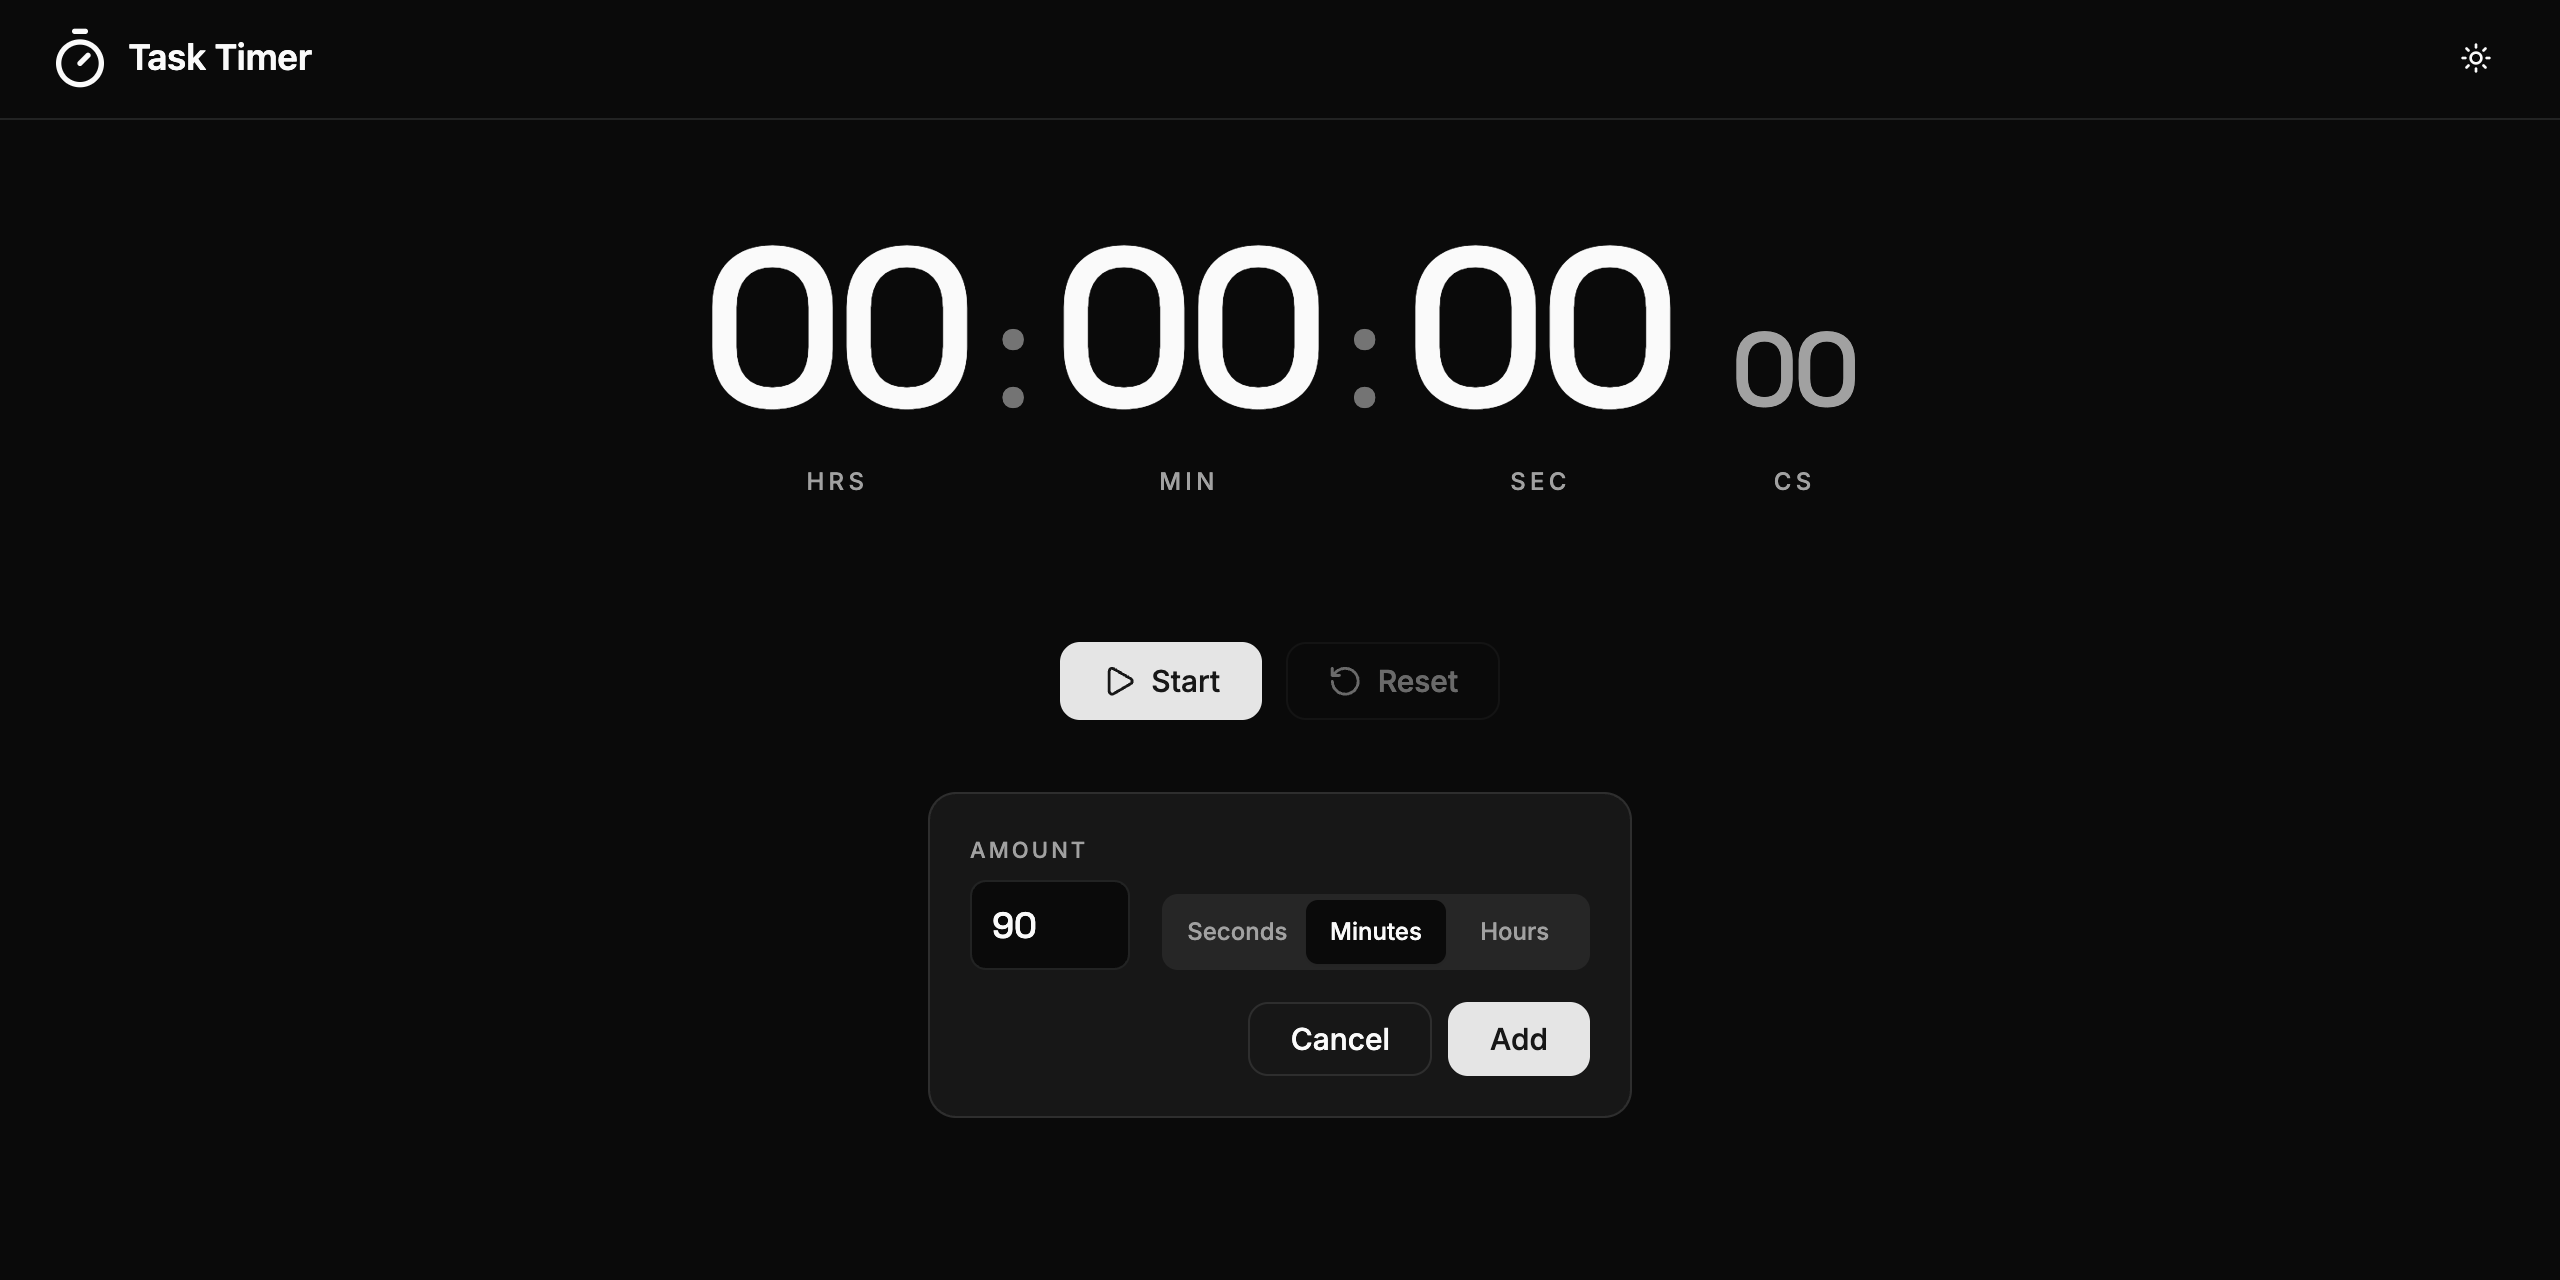
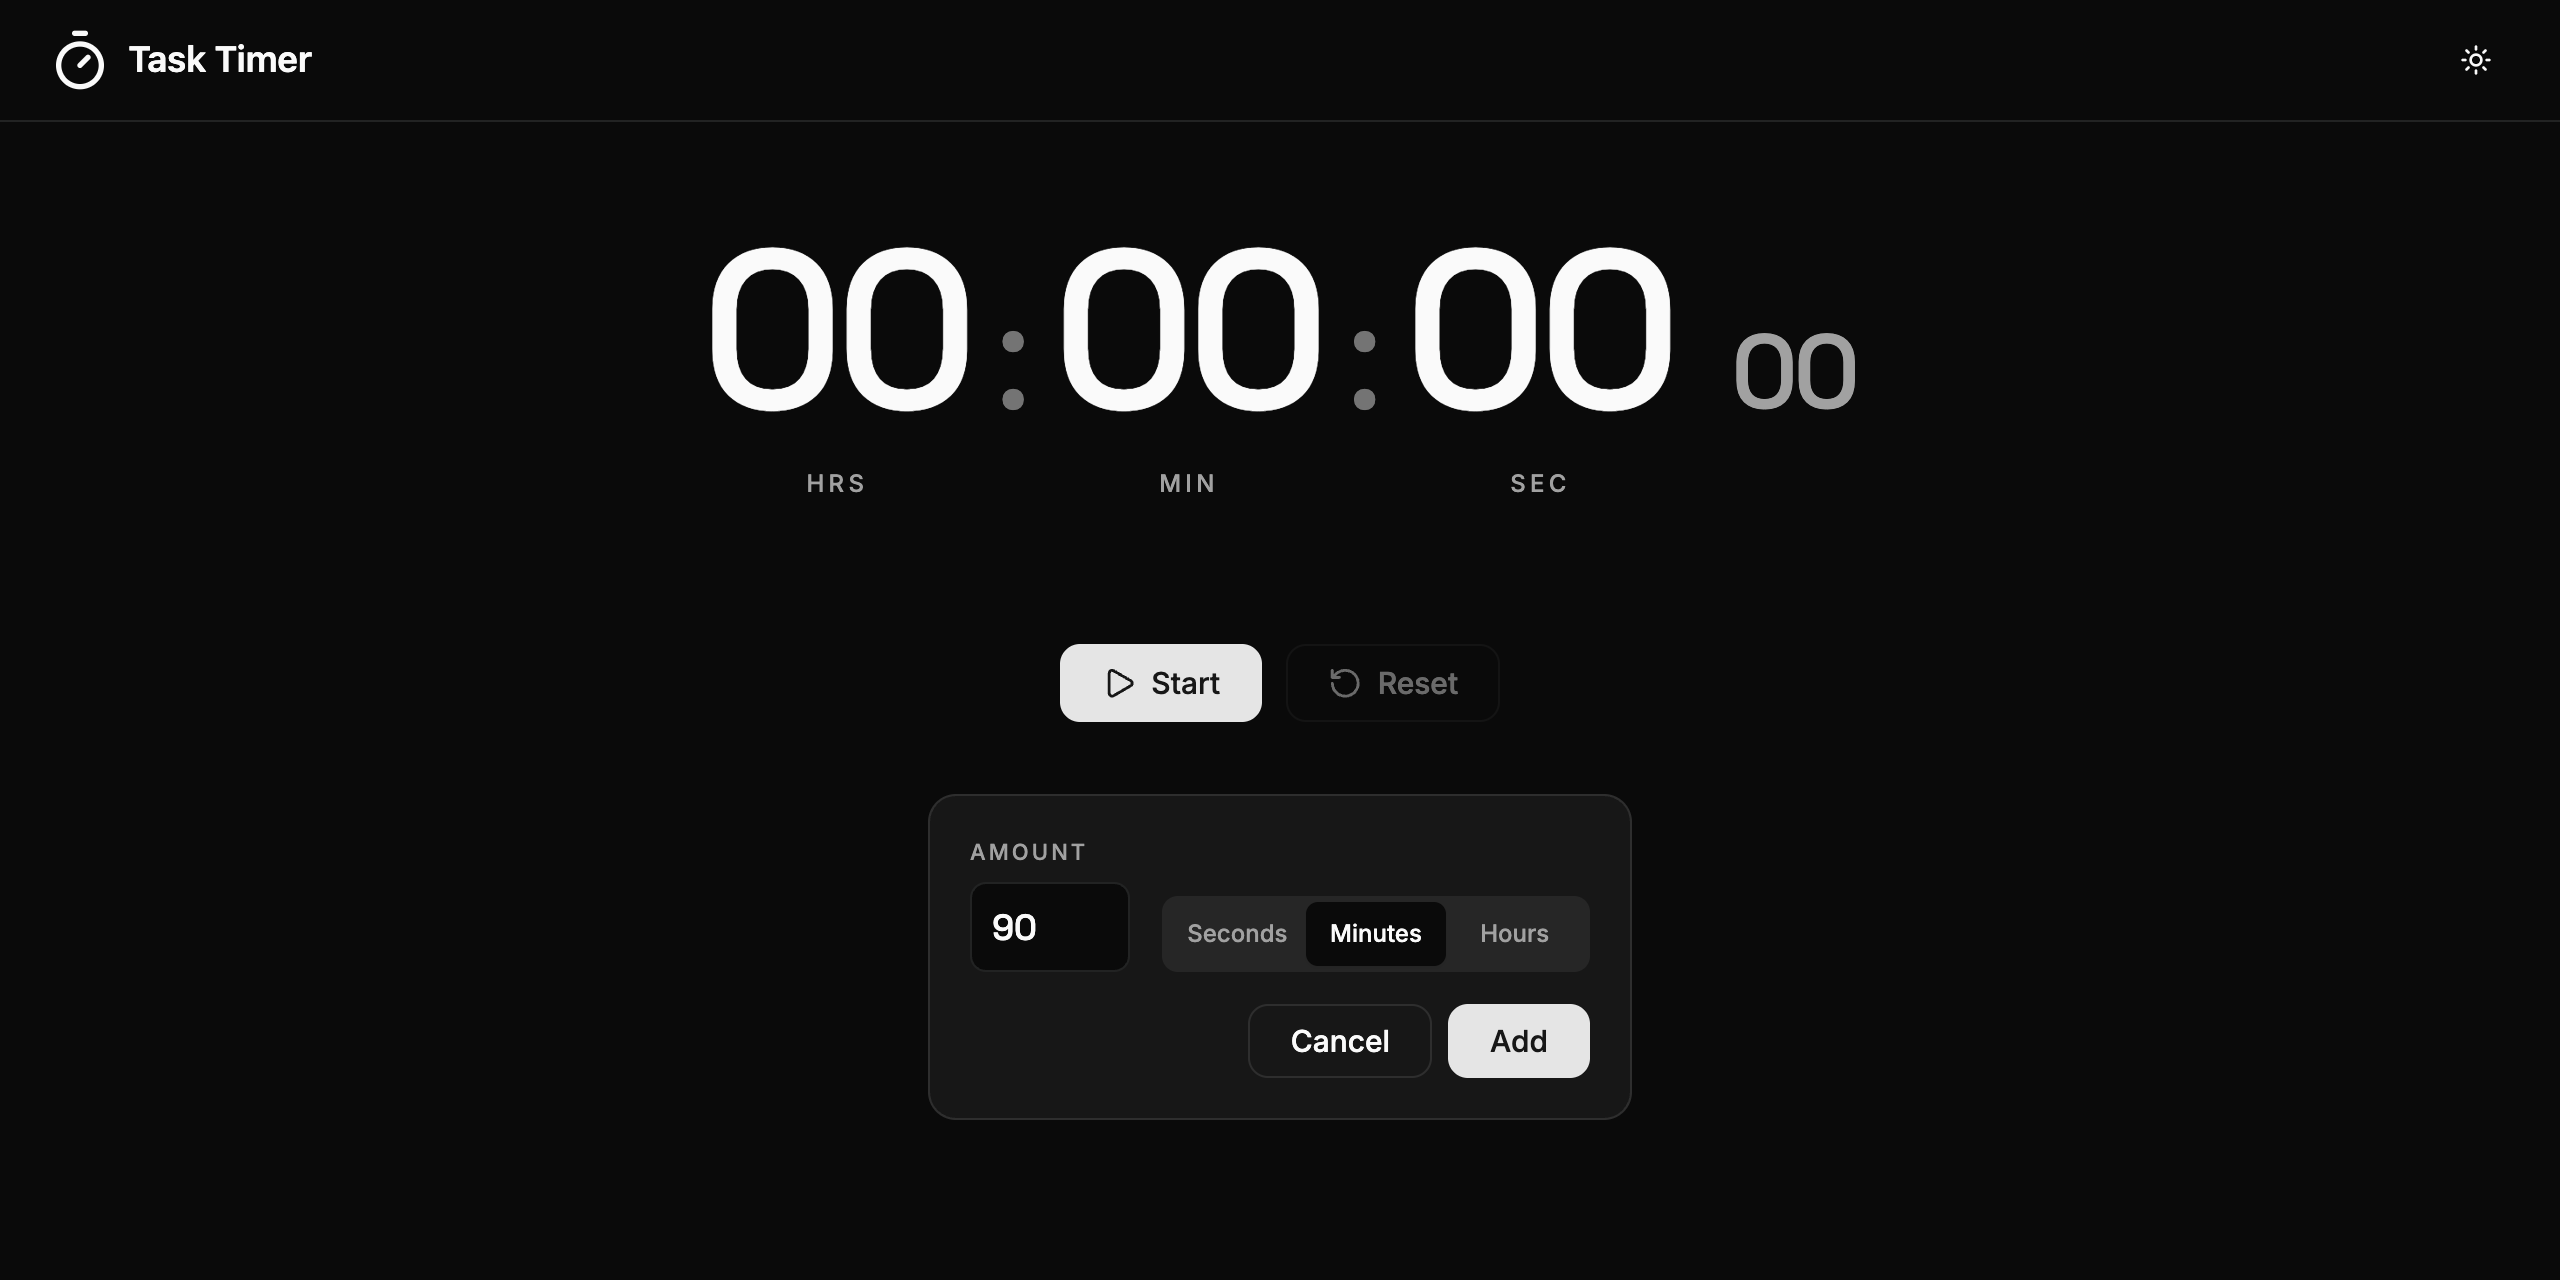
Drop the centisecond label and the README follow-ups section
The sub-register's amber numerals are self-evident next to SEC, so the CS
caption was redundant; removing it leaves the display grid's second row
empty in that column, which the auto-flow placement already handles.

diff --git a/app/components/timer/Timer.tsx b/app/components/timer/Timer.tsx
@@ -243,7 +243,6 @@ const TimerDisplay: FC<TimerDisplayProps> =
         <span className={cn(styles.value, styles.subValue)} data-testid="timer-value-SS">
           {formatInteger(Math.round(milliseconds / 10), 2)}
         </span>
-        <span className={cn(styles.unitLabel, styles.subLabel)}>Cs</span>
       </div>
     )
   }

diff --git a/app/components/timer/Timer.module.scss b/app/components/timer/Timer.module.scss
@@ -76,10 +76,6 @@
   transition: color 0.25s ease;
 }
 
-.subLabel {
-  margin-left: clamp(0.4rem, 1.6cqi, 1.1rem);
-}
-
 .displayLive .subValue {
   color: var(--tt-live);
 }

diff --git a/README.md b/README.md
@@ -29,14 +29,6 @@ At a narrow width the container queries scale the display down rather than wrapp
 
 <img src="docs/screenshots/timer-narrow.png" alt="The timer on a narrow viewport" width="360">
 
-## Outstanding follow-ups
-
-Carried over from the template — none of them block local development.
-
-- **Sentry**: `app/services/Sentry.ts` still has empty DSN placeholders, which disables Sentry per environment. Create dev/staging/prod projects and paste the DSNs in to enable it.
-- **GitHub environments**: the workflow gates deploys on `Staging` and `Production` environments — create them in the repo settings.
-- **Hosted zone**: `cdk-deploy/cdk.context.json` is not checked in; the first `cdk synth` populates it with the Route53 lookup for `ruchij.com`.
-
 ## Project layout
 
 ```
